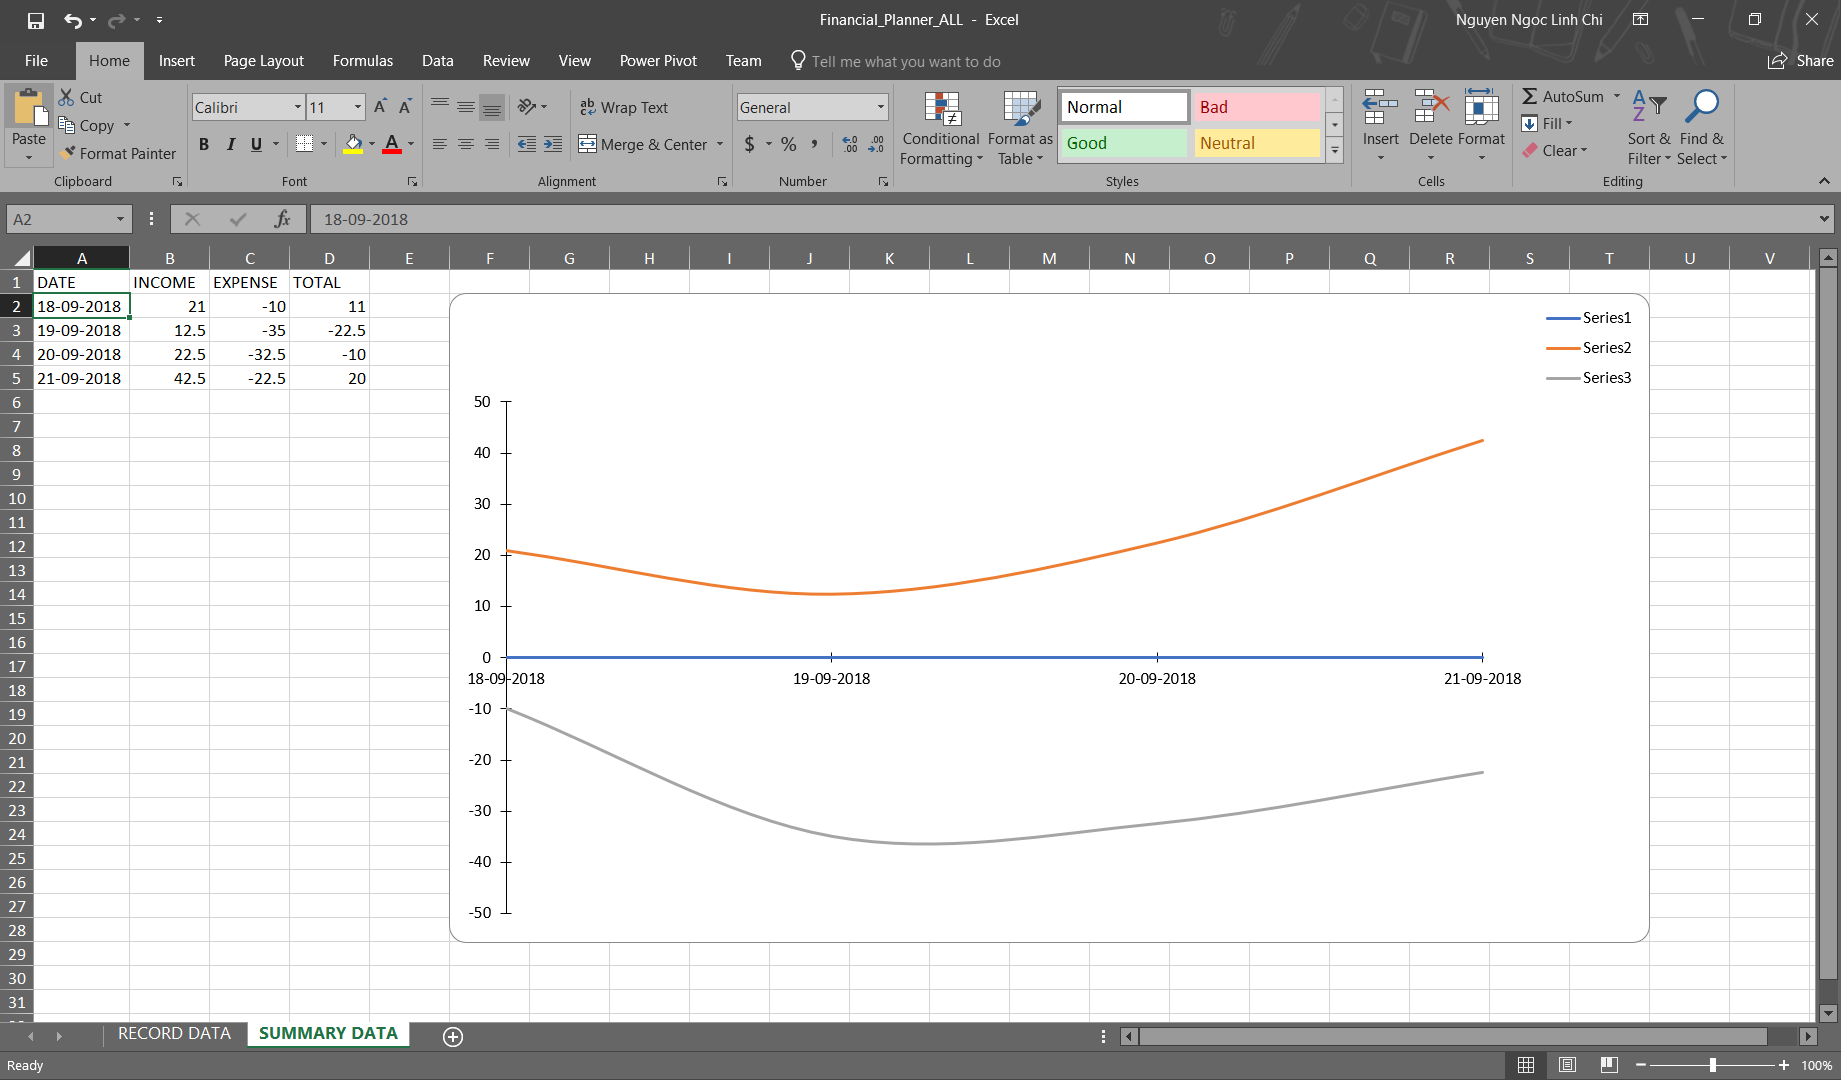
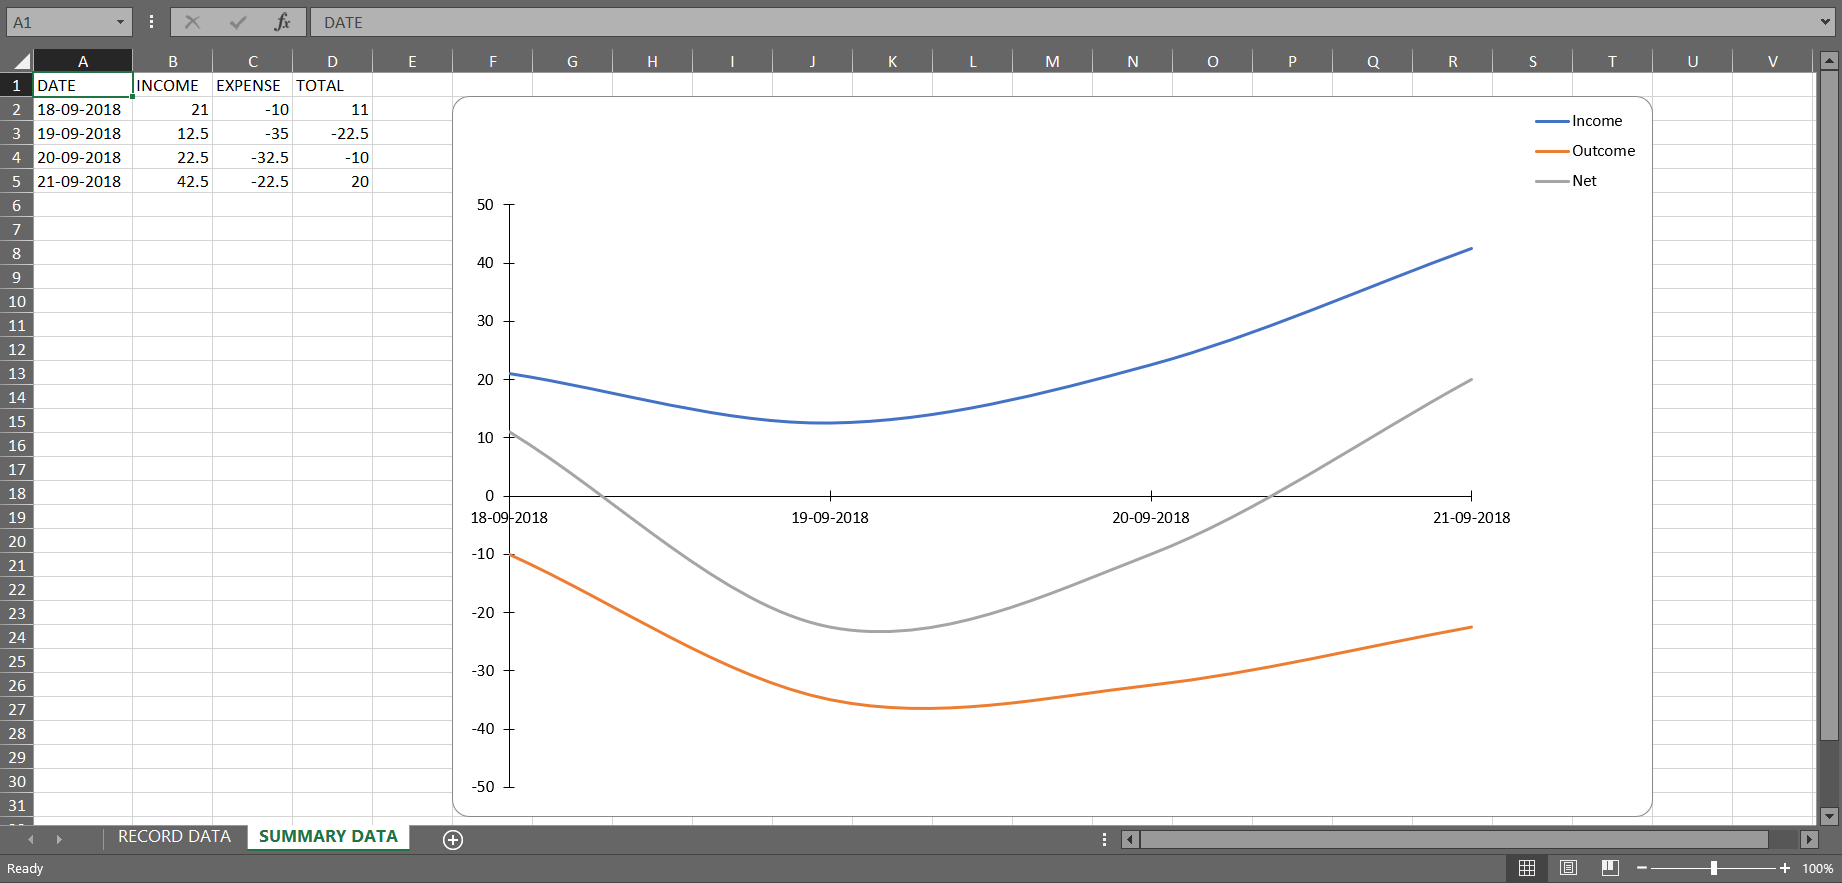
Update UG DG, change the serie name on the chart to more meaningful title as Income, Outcome and Net

diff --git a/docs/stylesheets/gh-pages.css b/docs/stylesheets/gh-pages.css
@@ -1,5 +1,5 @@
 @import url(https://fonts.googleapis.com/css?family=Montserrat|Open+Sans);
-@import "asciidoctor.css"; /* Default asciidoc style framework - important */
+@import "boot-cyborg.css"; /* Default asciidoc style framework - important */
 
 /* Custom block: details */
 
@@ -40,7 +40,7 @@ h5,
 h5 > a.link,
 h6,
 h6 > a.link {
-    color: #e46c0a;
+    color: #0074c7;
 }
 
 .subheader,

diff --git a/src/main/java/seedu/planner/commons/util/ExcelUtil.java b/src/main/java/seedu/planner/commons/util/ExcelUtil.java
@@ -26,6 +26,7 @@ import org.apache.poi.ss.usermodel.charts.ChartLegend;
 import org.apache.poi.ss.usermodel.charts.DataSources;
 import org.apache.poi.ss.usermodel.charts.LegendPosition;
 import org.apache.poi.ss.usermodel.charts.LineChartData;
+import org.apache.poi.ss.usermodel.charts.LineChartSeries;
 import org.apache.poi.ss.usermodel.charts.ValueAxis;
 import org.apache.poi.ss.util.CellRangeAddress;
 import org.apache.poi.xssf.usermodel.XSSFSheet;
@@ -225,9 +226,12 @@ public class ExcelUtil {
             ChartDataSource<Number> yNet = DataSources.fromNumericCellRange(
                     sheet, new CellRangeAddress(firstRowSheet, lastRowSheet, firstColumnNet, lastColumnNet));
 
-            data.addSeries(xDate, yIncome);
-            data.addSeries(xDate, yOutcome);
-            data.addSeries(xDate, yNet);
+            LineChartSeries series1 = data.addSeries(xDate, yIncome);
+            series1.setTitle("Income");
+            LineChartSeries series2 = data.addSeries(xDate, yOutcome);
+            series2.setTitle("Outcome");
+            LineChartSeries series3 = data.addSeries(xDate, yNet);
+            series3.setTitle("Net");
 
             chart.plot(data, bottomAxis, leftAxis);
 
